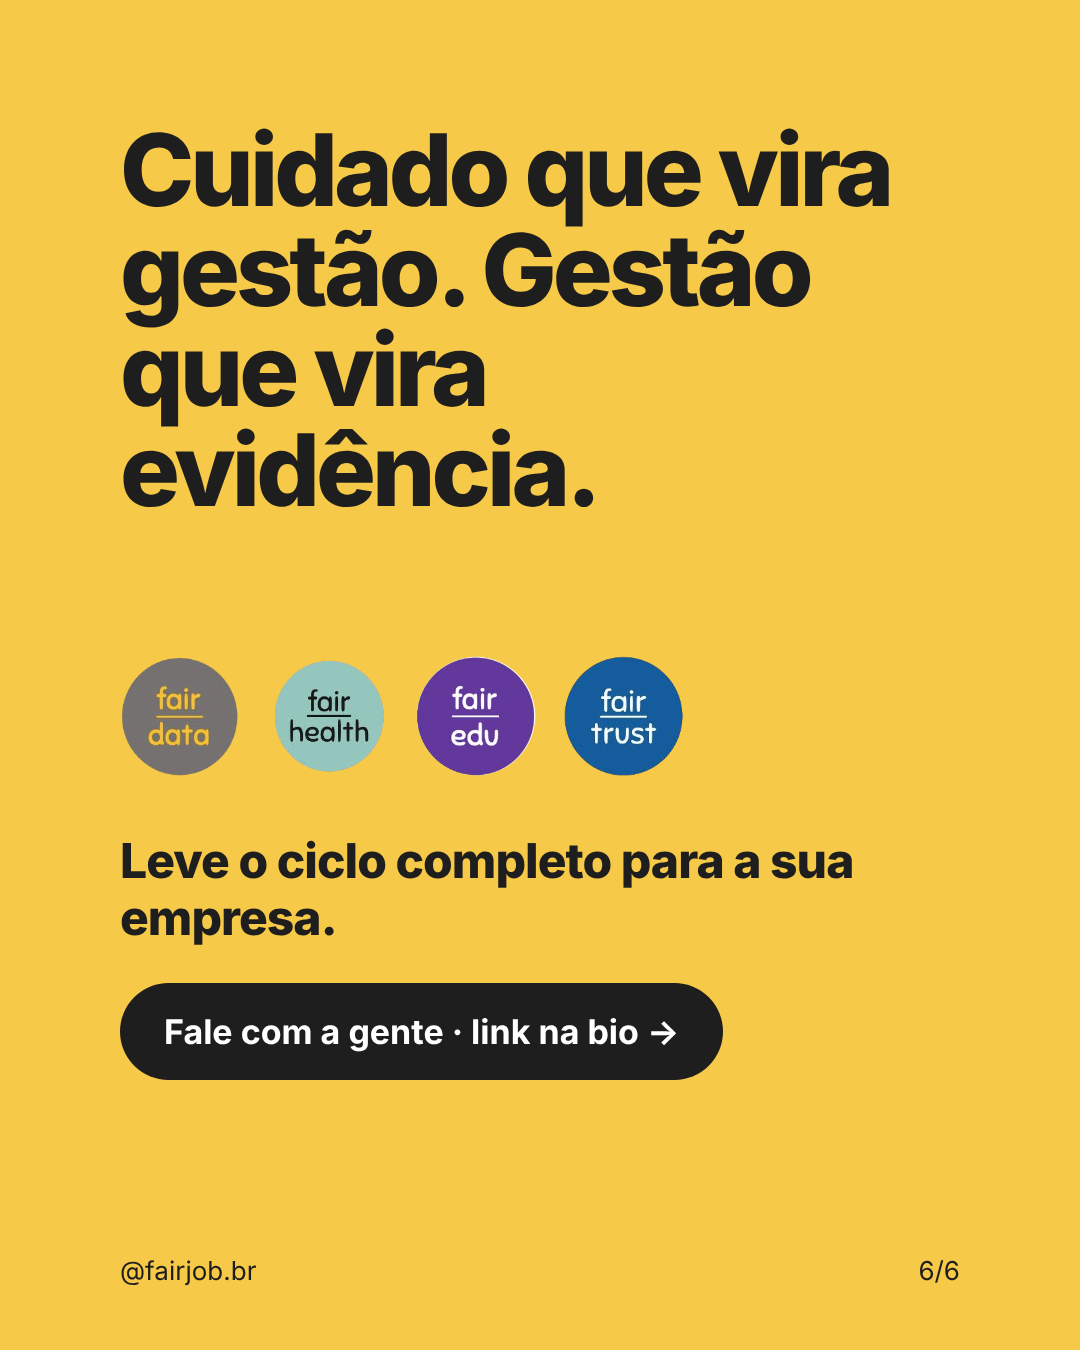
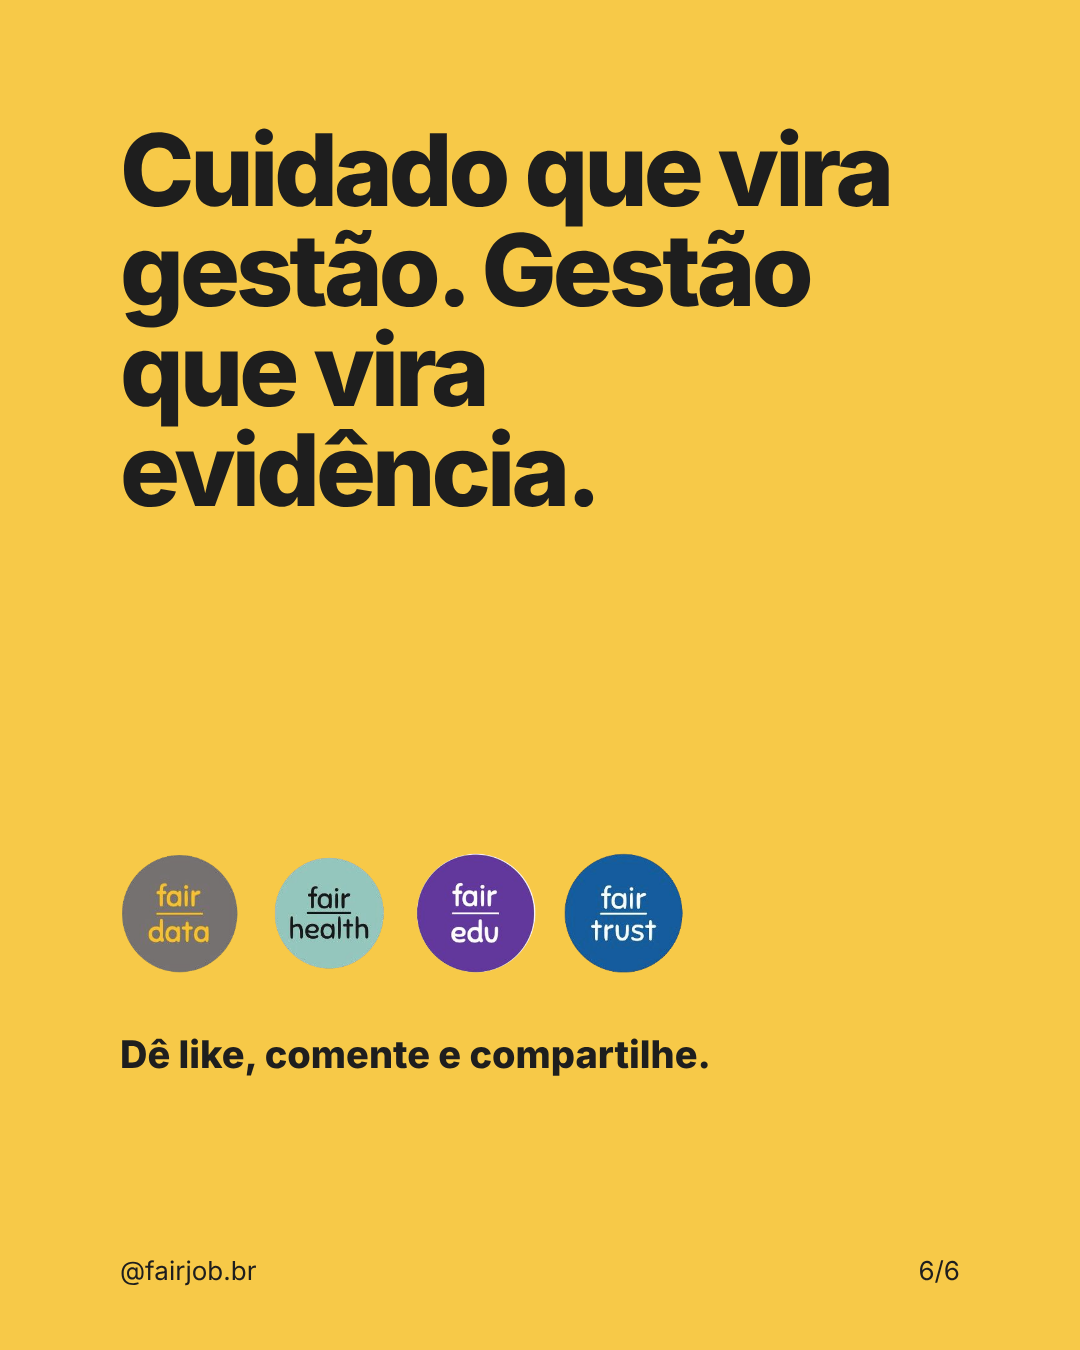
Carousel 01: CTA slide back to plain text, 'Dê like, comente e compartilhe'
Claude-Session: https://claude.ai/code/session_01BNRZX6VSYKwV1xCbt1XY1x

Changed region(s): [[0.0917, 0.6222, 0.7944, 0.8089], [0.0917, 0.4667, 0.6417, 0.5911]]

diff --git a/posts/01-ecossistema/carrossel.html b/posts/01-ecossistema/carrossel.html
@@ -74,9 +74,7 @@
   .cta h2 { margin-top: 0; font-size: 100px; line-height: 1; letter-spacing: -.04em; }
   .cta .ciclo { margin-top: auto; display: flex; gap: 28px; }
   .cta .ciclo img { width: 120px; height: 120px; }
-  .cta .proximo { margin-top: 56px; font-size: 48px; line-height: 1.2; font-weight: 800; letter-spacing: -.02em; }
-  .cta .botao { align-self: flex-start; margin-top: 36px; margin-bottom: 150px; background: var(--preto); color: #fff;
-    border-radius: 999px; padding: 28px 44px; font-size: 34px; font-weight: 700; }
+  .cta .proximo { margin-top: 56px; margin-bottom: 150px; font-size: 38px; line-height: 1.35; }
   .cta .proximo strong { font-weight: 800; }
   .cta .rodape.leve { color: var(--preto); }
 </style>
@@ -151,8 +149,7 @@
   <div class="ciclo">
     <img src="../assets/logos/fairdata.png" alt="fairdata"><img src="../assets/logos/fairhealth.png" alt="fairhealth"><img src="../assets/logos/fairedu.png" alt="fairedu"><img src="../assets/logos/fairtrust.png" alt="fairtrust">
   </div>
-  <p class="proximo">Leve o ciclo completo para a sua empresa.</p>
-  <span class="botao">Fale com a gente · link na bio →</span>
+  <p class="proximo"><strong>Dê like, comente e compartilhe.</strong></p>
   <div class="rodape leve"><div>@fairjob.br</div><div>6/6</div></div>
 </section>
 
